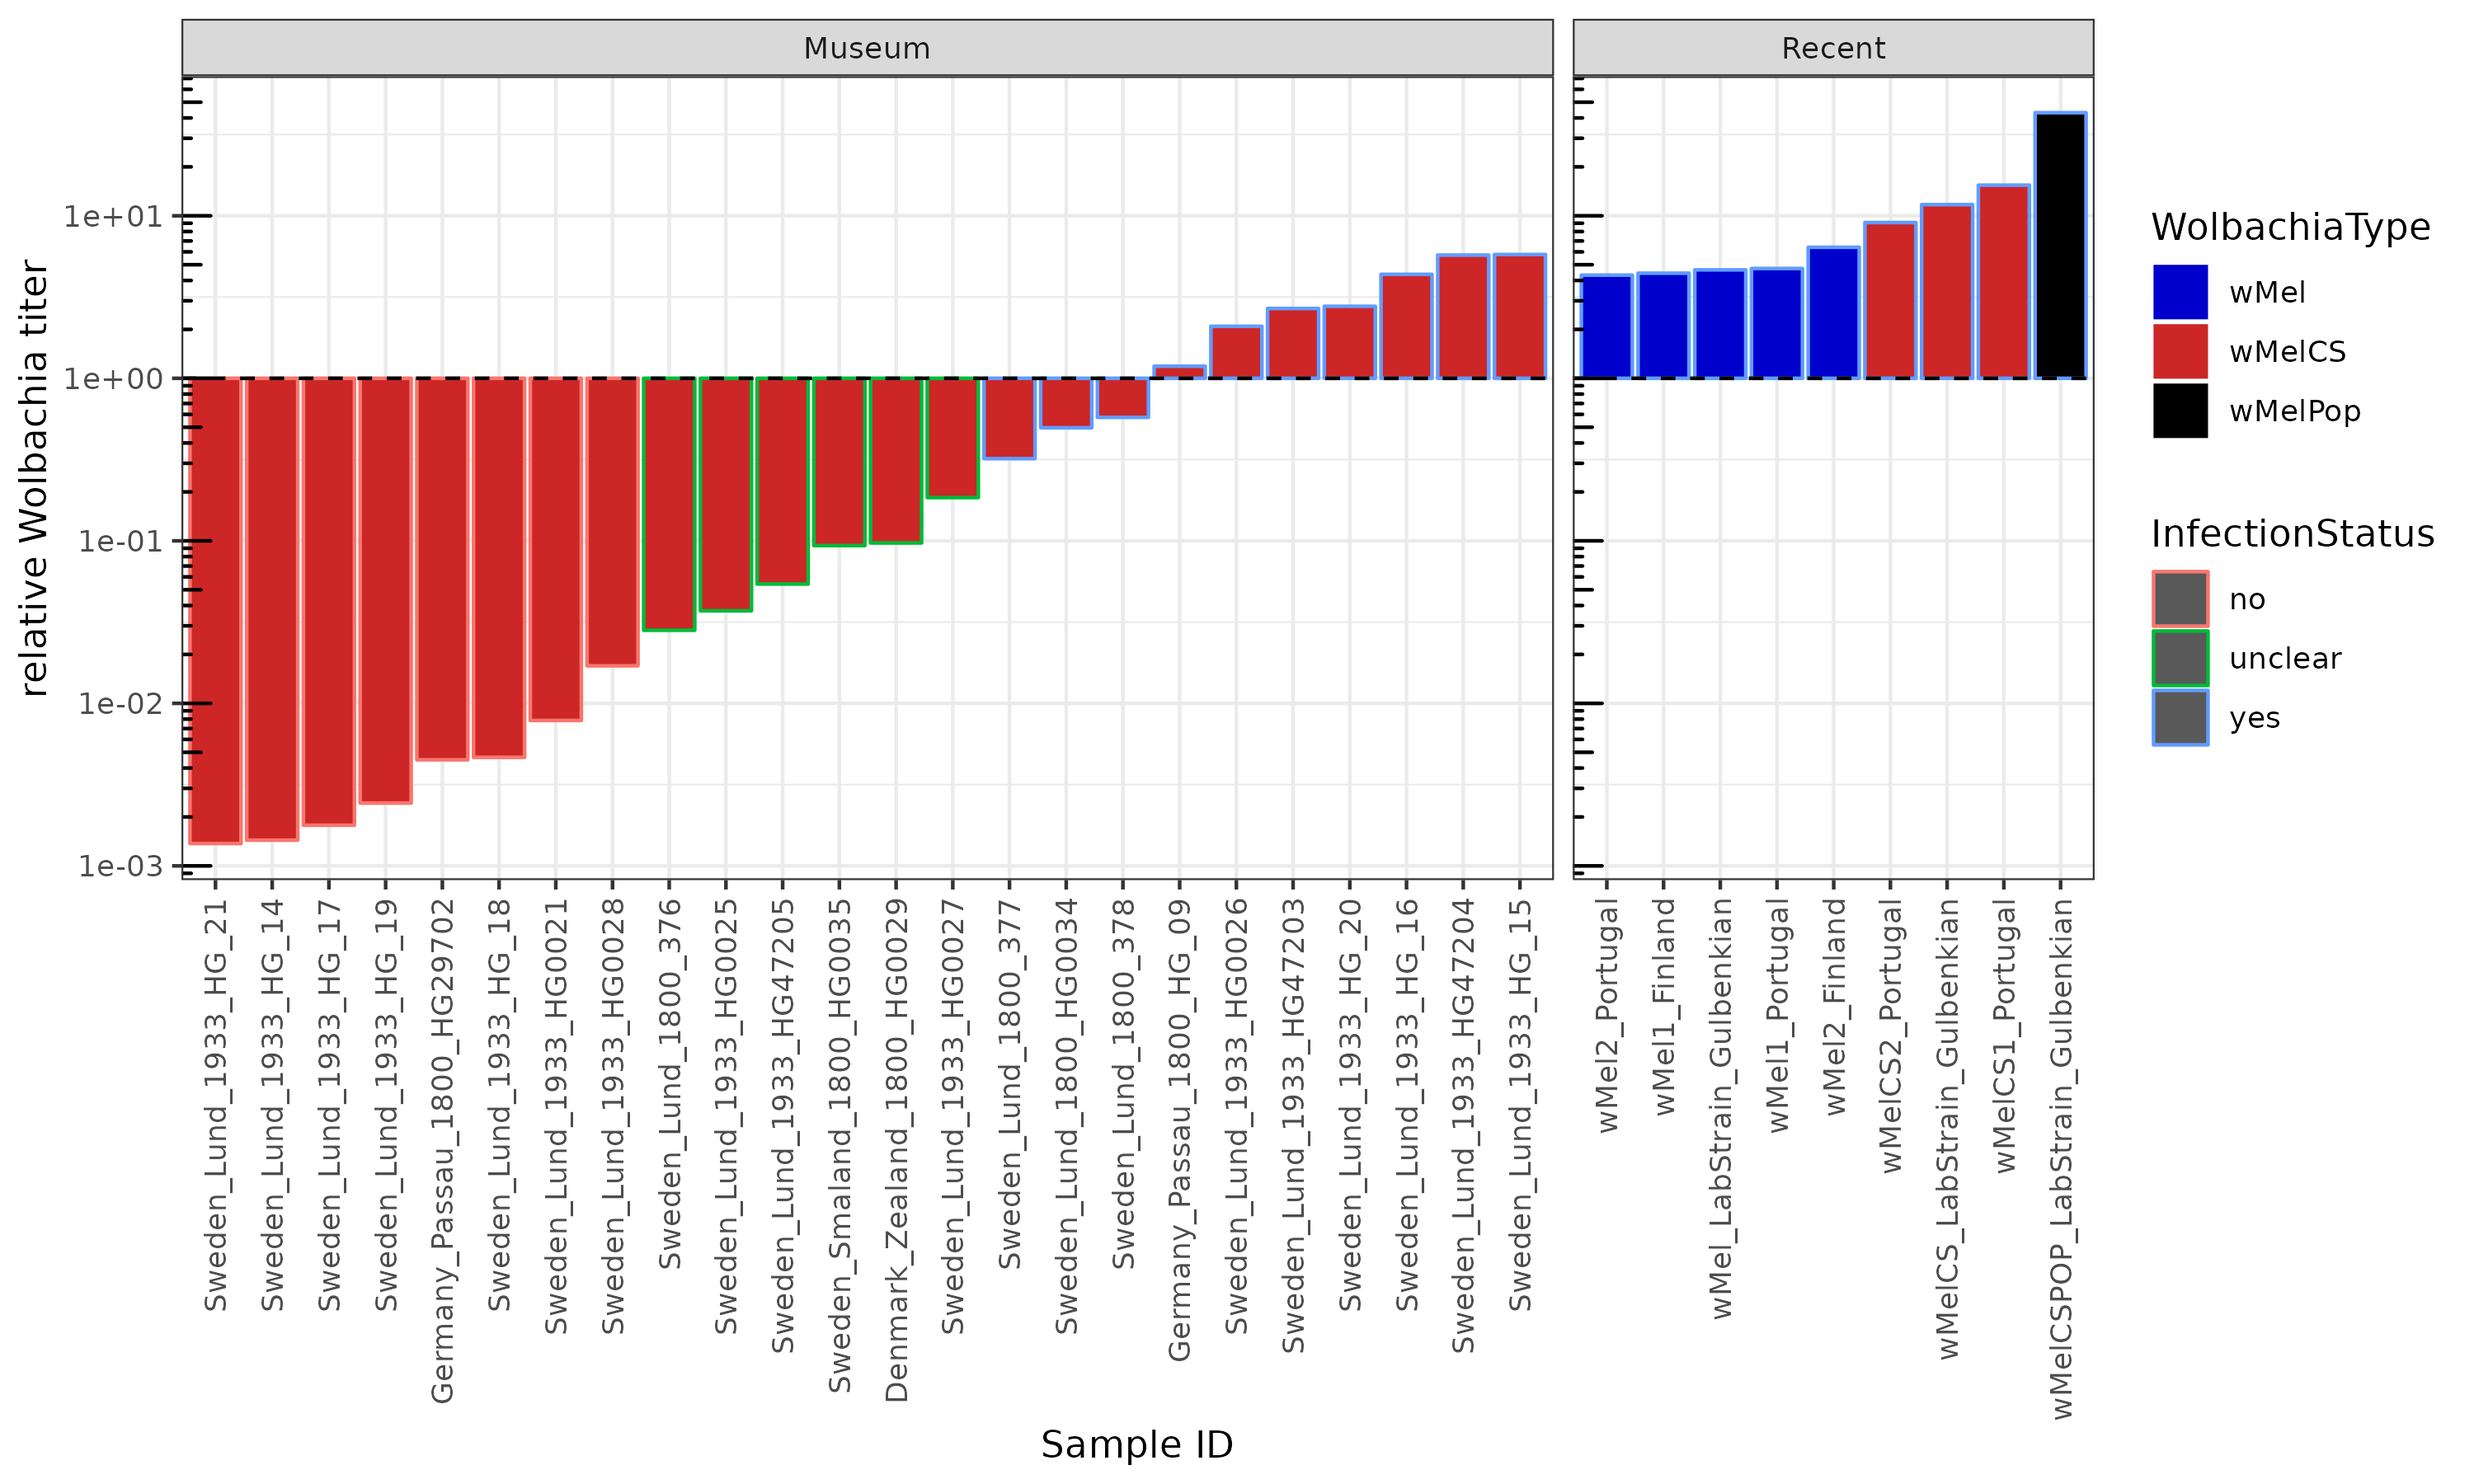
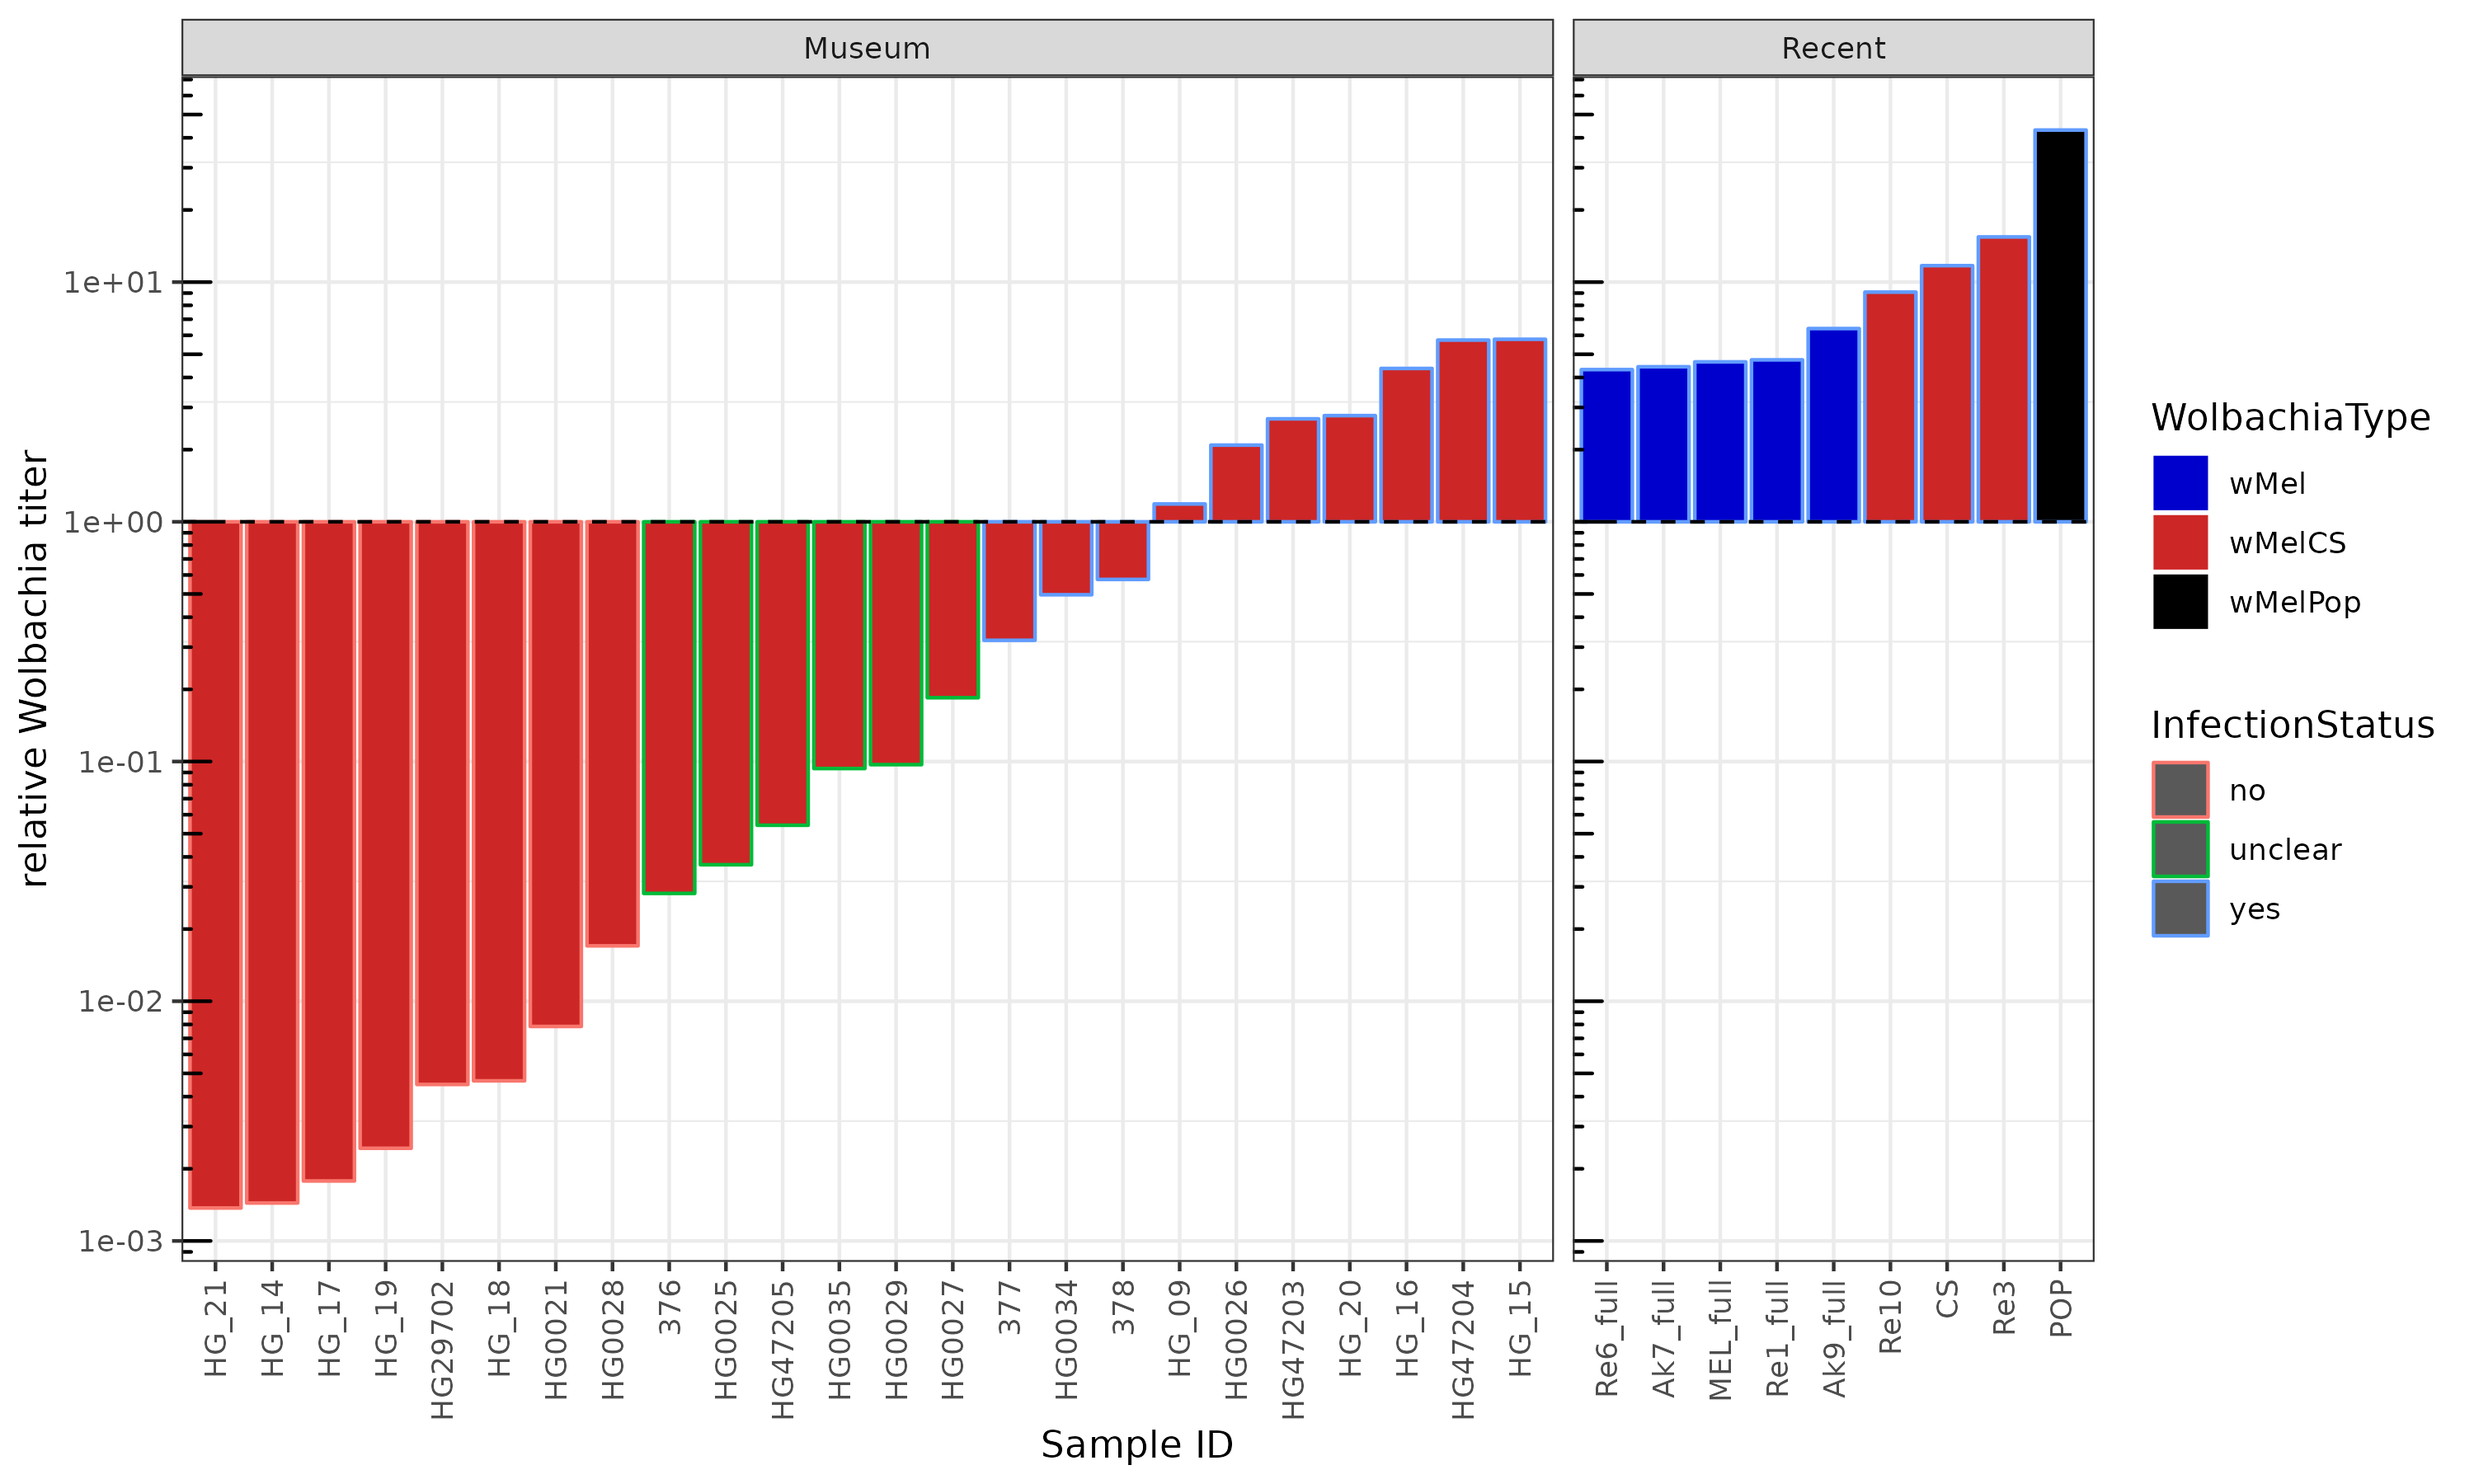
update

diff --git a/scripts/SumReadDepths.py b/scripts/SumReadDepths.py
@@ -83,5 +83,5 @@ for k in sorted(list(Aut.keys())):
         WType = "wMelPop"
     else:
         WType = "wMelCS"
-    print(NAME[k], Type, WType, STATUS[NAME[k]], str(sum(Aut[k])/len(Aut[k])), str(X[k]), str(MitoDepth[k]), str(
+    print(k, Type, WType, STATUS[NAME[k]], str(sum(Aut[k])/len(Aut[k])), str(X[k]), str(MitoDepth[k]), str(
         WolDepth[k]), str(WolCov[k]), str(WolDepth[k]/(sum(Aut[k])/len(Aut[k]))), sep="\t")
